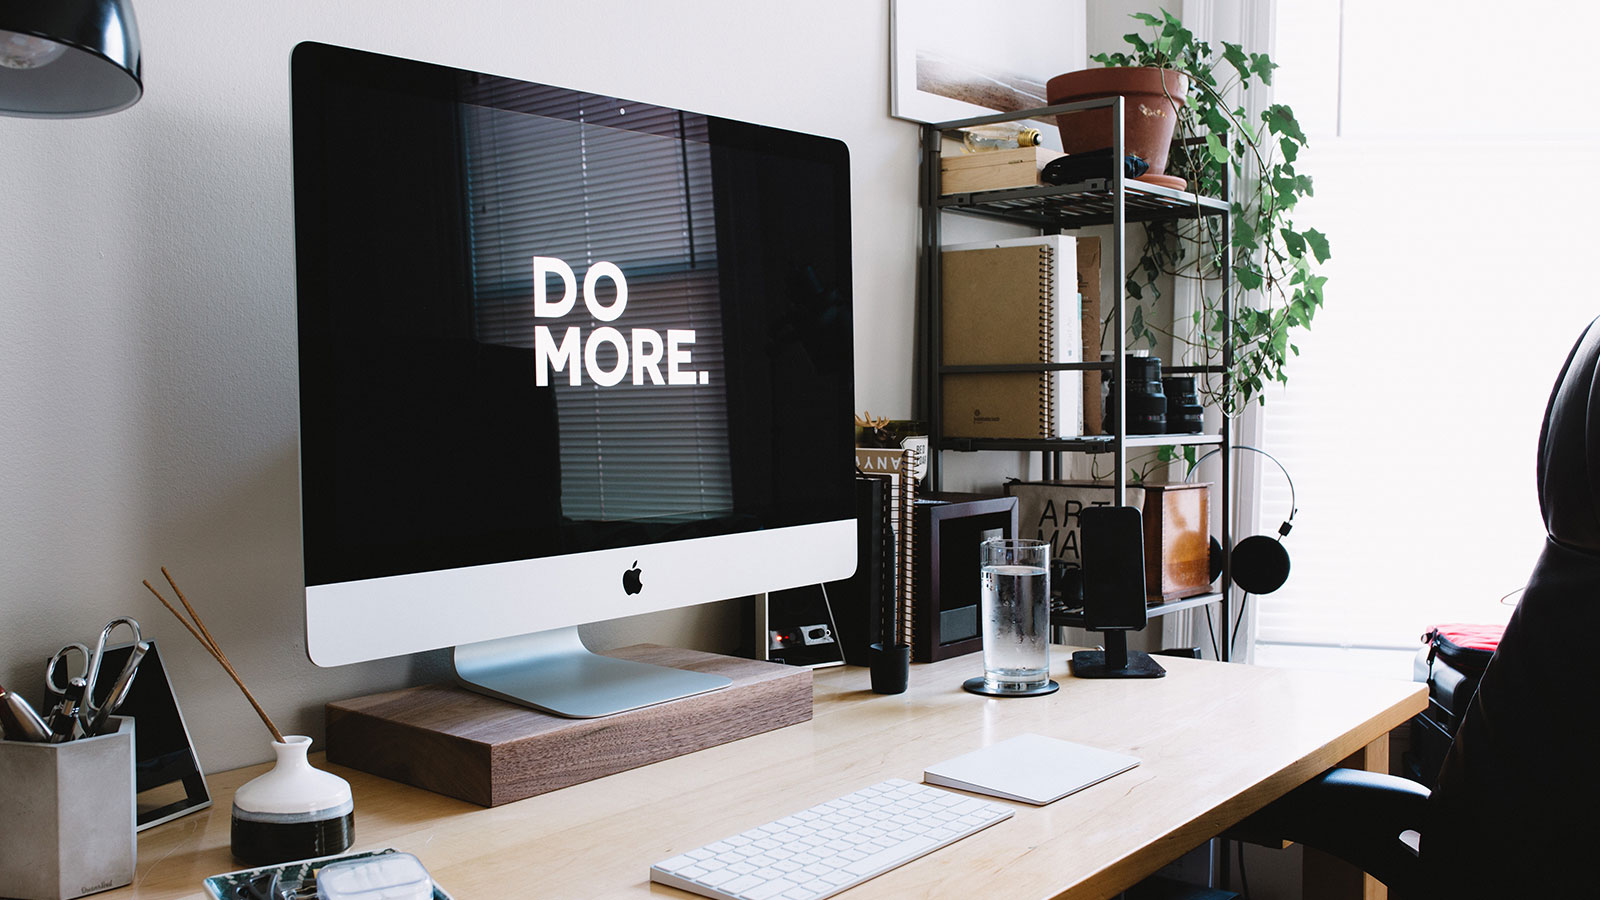
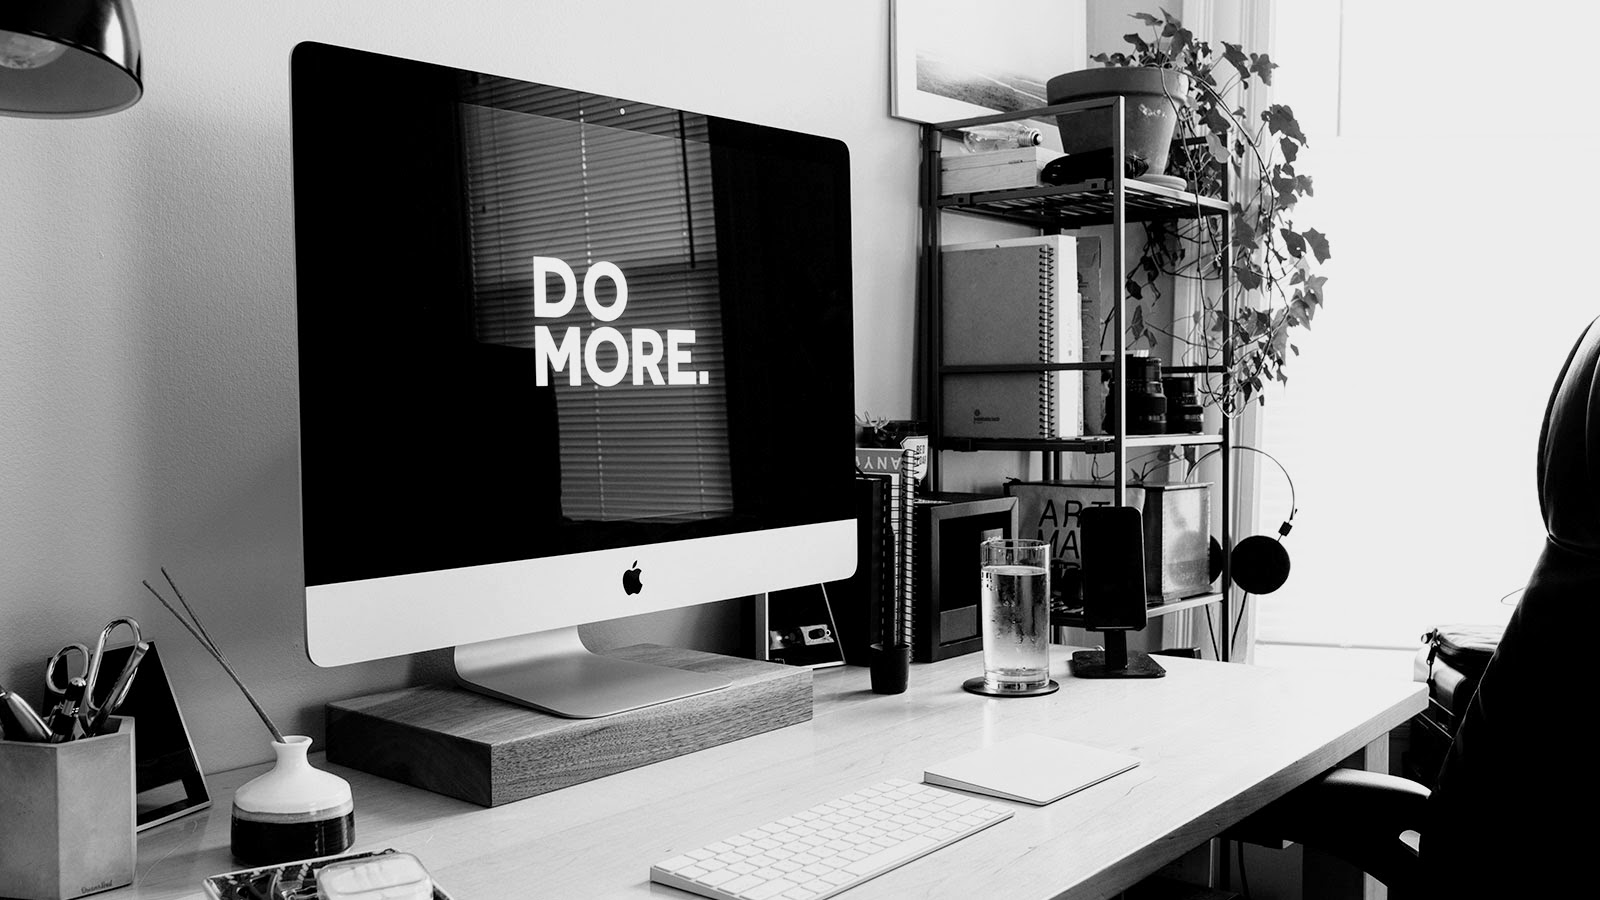
Adding greyscale on images

diff --git a/index.html b/index.html
@@ -29,7 +29,7 @@ featured_image: /images/demo/demo-landscape-2.jpg
 		<article class="post">
 
 			<div class="post__image-wrap">
-				<div class="post__image" style="background-image: url({{ '/images/demo/head-square.jpg' | relative_url }})"></div>
+				<div class="post__image" style="background-image: url({{ '/images/demo/head-square-b-w.jpg' | relative_url }})"></div>
 			</div>
 
 			<div class="post__content-wrap">
